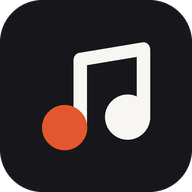
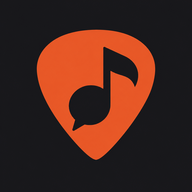
Переименование в «Споём»: логотип и обложка от ChatGPT, тюнер в нижнем меню

diff --git a/site/index.html b/site/index.html
@@ -3,29 +3,29 @@
 <head>
 <meta charset="utf-8">
 <meta name="viewport" content="width=device-width, initial-scale=1, viewport-fit=cover">
-<title>Бренчим — песни нашей компании</title>
-<meta name="description" content="Наш песенник: тексты и аккорды песен, которые мы играем на встречах. Сет на вечер, топ компании, видео с YouTube.">
+<title>Споём</title>
+<meta name="description" content="Тексты и аккорды наших песен, сет на вечер, тюнер. Открыл — и поём.">
 <meta name="robots" content="noindex, nofollow">
 <meta name="theme-color" content="#F7F6F3" media="(prefers-color-scheme: light)">
 <meta name="theme-color" content="#111113" media="(prefers-color-scheme: dark)">
 
 <meta property="og:type" content="website">
-<meta property="og:site_name" content="Бренчим">
+<meta property="og:site_name" content="Споём">
 <meta property="og:locale" content="ru_RU">
-<meta property="og:title" content="Бренчим — песни нашей компании">
-<meta property="og:description" content="Тексты и аккорды всех наших песен. Открыл — и играем.">
+<meta property="og:title" content="Споём">
+<meta property="og:description" content="Тексты и аккорды наших песен. Открыл — и поём.">
 <meta property="og:url" content="https://v-overkovskiy.github.io/brenchim/">
 <meta property="og:image" content="https://v-overkovskiy.github.io/brenchim/img/og.jpg">
 <meta property="og:image:width" content="1200">
 <meta property="og:image:height" content="630">
-<meta property="og:image:alt" content="Бренчим — песни нашей компании">
+<meta property="og:image:alt" content="Споём">
 <meta name="twitter:card" content="summary_large_image">
-<meta name="twitter:title" content="Бренчим — песни нашей компании">
-<meta name="twitter:description" content="Тексты и аккорды всех наших песен. Открыл — и играем.">
+<meta name="twitter:title" content="Споём">
+<meta name="twitter:description" content="Тексты и аккорды наших песен. Открыл — и поём.">
 <meta name="twitter:image" content="https://v-overkovskiy.github.io/brenchim/img/og.jpg">
 
-<link rel="icon" href="img/icon.svg" type="image/svg+xml">
-<link rel="apple-touch-icon" href="img/icon-192.png">
+<link rel="icon" href="img/favicon.png" type="image/png">
+<link rel="apple-touch-icon" href="img/apple-touch-icon.png">
 <link rel="manifest" href="manifest.webmanifest">
 <link rel="preconnect" href="https://fonts.googleapis.com">
 <link rel="preconnect" href="https://fonts.gstatic.com" crossorigin>
@@ -41,6 +41,7 @@
   <a href="#/" data-tab="home"><svg viewBox="0 0 24 24" fill="none" stroke="currentColor" stroke-width="2" stroke-linecap="round" stroke-linejoin="round" aria-hidden="true"><path d="M9 18V5l12-2v13"/><circle cx="6" cy="18" r="3"/><circle cx="18" cy="16" r="3"/></svg>Песни</a>
   <a href="#/set" data-tab="set"><svg viewBox="0 0 24 24" fill="none" stroke="currentColor" stroke-width="2" stroke-linecap="round" aria-hidden="true"><path d="M8 6h13"/><path d="M8 12h13"/><path d="M8 18h13"/><path d="M3 6h.01"/><path d="M3 12h.01"/><path d="M3 18h.01"/></svg>Сет</a>
   <a href="#/add" data-tab="add"><svg viewBox="0 0 24 24" fill="none" stroke="currentColor" stroke-width="2" stroke-linecap="round" aria-hidden="true"><circle cx="12" cy="12" r="9"/><path d="M12 8v8"/><path d="M8 12h8"/></svg>Добавить</a>
+  <a href="#/tuner" data-tab="tuner"><svg viewBox="0 0 24 24" fill="none" stroke="currentColor" stroke-width="2" stroke-linecap="round" stroke-linejoin="round" aria-hidden="true"><path d="M3 18a9 9 0 0 1 18 0"/><path d="m12 18 4-7"/><circle cx="12" cy="18" r="1.4"/></svg>Тюнер</a>
   <a href="#/people" data-tab="people"><svg viewBox="0 0 24 24" fill="none" stroke="currentColor" stroke-width="2" stroke-linecap="round" aria-hidden="true"><circle cx="9" cy="8" r="4"/><path d="M2 21c0-4 3-7 7-7s7 3 7 7"/><path d="M16 4a4 4 0 0 1 0 8"/><path d="M22 21c0-3-2-6-5-7"/></svg>Компания</a>
 </div></nav>
 <script type="module" src="js/app.js"></script>

diff --git a/site/js/app.js b/site/js/app.js
@@ -96,9 +96,8 @@ async function needMe(reason) { return prefs.me && memberById(prefs.me) ? prefs.
 function topBar() {
   const me = memberById(prefs.me);
   return `<header class="top">
-    <a class="brand" href="#/"><span class="brand-mark">${I.note.replace('<svg', '<svg width="20" height="20"')}</span><span><b>Бренчим</b><span>песни нашей компании</span></span></a>
+    <a class="brand" href="#/"><img class="brand-logo" src="img/logo.png" alt="" width="40" height="40"><span><b>Споём</b></span></a>
     <div class="top-actions">
-      <a class="icon-btn" href="#/tuner" aria-label="Тюнер">${I.tuner}</a>
       <button class="icon-btn" data-act="theme" aria-label="${isDark() ? 'Светлая тема' : 'Тёмная тема'}">${isDark() ? I.sun : I.moon}</button>
       <button class="me-btn" data-act="me" aria-label="${me ? 'Ты: ' + esc(me.name) + '. Сменить' : 'Кто ты?'}">${me ? ava(me, 38, 'ava-ring') : `<span class="icon-btn">${I.people}</span>`}</button>
     </div></header>`;
@@ -171,7 +170,7 @@ function homeView() {
   return `<div class="wrap">${topBar()}
     <label class="search">${I.search}<span class="sr">Поиск</span><input id="q" type="search" placeholder="Песня, исполнитель или строчка" value="${esc(homeQuery)}" autocomplete="off" enterkeyhint="search"></label>
     ${q ? '' : `<section class="hero">
-      <div class="hero-row"><div><div class="eyebrow">Сет на вечер</div><h2>${esc(set?.title || 'Сет на вечер')}</h2>
+      <div class="hero-row"><div><div class="eyebrow">Сет на вечер</div><h2>${esc(set?.title && set.title !== 'Сет на вечер' ? set.title : 'Что поём?')}</h2>
         <div class="sub">${setSongs.length ? plural(setSongs.length, 'песня', 'песни', 'песен') : 'пока пусто — накидайте песен'}${set?.date ? ' · ' + esc(new Date(set.date).toLocaleDateString('ru', { day: 'numeric', month: 'long', weekday: 'short' })) : ''}</div></div>
         ${requesters.length ? `<div class="stack">${requesters.map((m) => ava(m, 28)).join('')}</div>` : ''}</div>
       <div class="hero-actions">
@@ -634,11 +633,11 @@ function render() {
   else html = homeView();
   $app.innerHTML = html;
   document.body.classList.toggle('has-dock', route.name === 'song');
-  const tab = { home: 'home', song: 'home', edit: 'home', add: 'add', set: 'set', people: 'people', tuner: 'home' }[route.name];
+  const tab = { home: 'home', song: 'home', edit: 'home', add: 'add', set: 'set', people: 'people', tuner: 'tuner' }[route.name];
   $nav.querySelectorAll('a').forEach((a) => { const on = a.dataset.tab === tab; a.classList.toggle('on', on); if (on) a.setAttribute('aria-current', 'page'); else a.removeAttribute('aria-current'); });
   if (route.name === 'home') bindHome();
   const song = route.name === 'song' && db.songs.find((s) => s.id === route.id);
-  document.title = song ? `${song.title}${song.artist ? ' — ' + song.artist : ''} · Бренчим` : 'Бренчим — песни нашей компании';
+  document.title = song ? `${song.title}${song.artist ? ' — ' + song.artist : ''} · Споём` : 'Споём';
 }
 
 function onRoute() {

diff --git a/site/css/app.css b/site/css/app.css
@@ -58,9 +58,8 @@ img { display: block; }
 /* top bar */
 .top { display: flex; align-items: center; justify-content: space-between; padding: 14px 0 6px; gap: 8px; }
 .brand { display: flex; align-items: center; gap: 10px; color: var(--ink); }
-.brand-mark { width: 36px; height: 36px; border-radius: 10px; background: var(--ink); display: grid; place-items: center; }
-.brand-mark svg { stroke: var(--bg); }
-.brand b { color: var(--ink); display: block; font-size: 20px; font-weight: 800; letter-spacing: -.02em; line-height: 1; }
+.brand-logo { width: 40px; height: 40px; border-radius: 11px; }
+.brand b { color: var(--ink); display: block; font-size: 22px; font-weight: 800; letter-spacing: -.02em; line-height: 1; }
 .brand span { display: block; font-size: 12px; color: var(--muted); margin-top: 3px; }
 .top-actions { display: flex; align-items: center; gap: 2px; }
 
@@ -262,7 +261,7 @@ body.has-dock { padding-bottom: calc(160px + env(safe-area-inset-bottom)); }
   position: fixed; left: 0; right: 0; bottom: 0; z-index: 30; background: var(--surface);
   border-top: 1px solid var(--line); padding-bottom: env(safe-area-inset-bottom);
 }
-.nav .in { max-width: 720px; margin: 0 auto; display: grid; grid-template-columns: repeat(4, minmax(0, 1fr)); height: 76px; padding-bottom: 8px; }
+.nav .in { max-width: 720px; margin: 0 auto; display: grid; grid-template-columns: repeat(5, minmax(0, 1fr)); height: 76px; padding-bottom: 8px; }
 .nav a { display: flex; flex-direction: column; align-items: center; justify-content: center; gap: 4px; color: var(--muted); font-size: 11px; font-weight: 500; }
 .nav a svg { width: 22px; height: 22px; }
 .nav a.on { color: var(--ink); font-weight: 600; }

diff --git a/site/sw.js b/site/sw.js
@@ -1,6 +1,6 @@
 // Офлайн: оболочка сайта из кэша, данные песен приложение само хранит в localStorage.
-const CACHE = 'brenchim-v1';
-const SHELL = ['./', 'index.html', 'css/app.css', 'js/app.js', 'js/store.js', 'js/chords.js', 'js/importers.js', 'js/members.js', 'js/tuner.js','js/config.js', 'img/icon.svg', 'manifest.webmanifest'];
+const CACHE = 'spoem-v2';
+const SHELL = ['./', 'index.html', 'css/app.css', 'js/app.js', 'js/store.js', 'js/chords.js', 'js/importers.js', 'js/members.js', 'js/tuner.js','js/config.js', 'img/logo.png', 'manifest.webmanifest'];
 
 self.addEventListener('install', (e) => {
   e.waitUntil(caches.open(CACHE).then((c) => c.addAll(SHELL)).then(() => self.skipWaiting()));

diff --git a/README.md b/README.md
@@ -1,6 +1,6 @@
-# Бренчим — песни нашей компании
+# Споём
 
-Песенник для наших встреч: тексты и аккорды, сет на вечер, топ компании, видео с YouTube и тюнер.
+Песенник нашей компании для встреч: тексты и аккорды, сет на вечер, топ компании, видео с YouTube и тюнер.
 
 Сайт: https://v-overkovskiy.github.io/brenchim/
 
